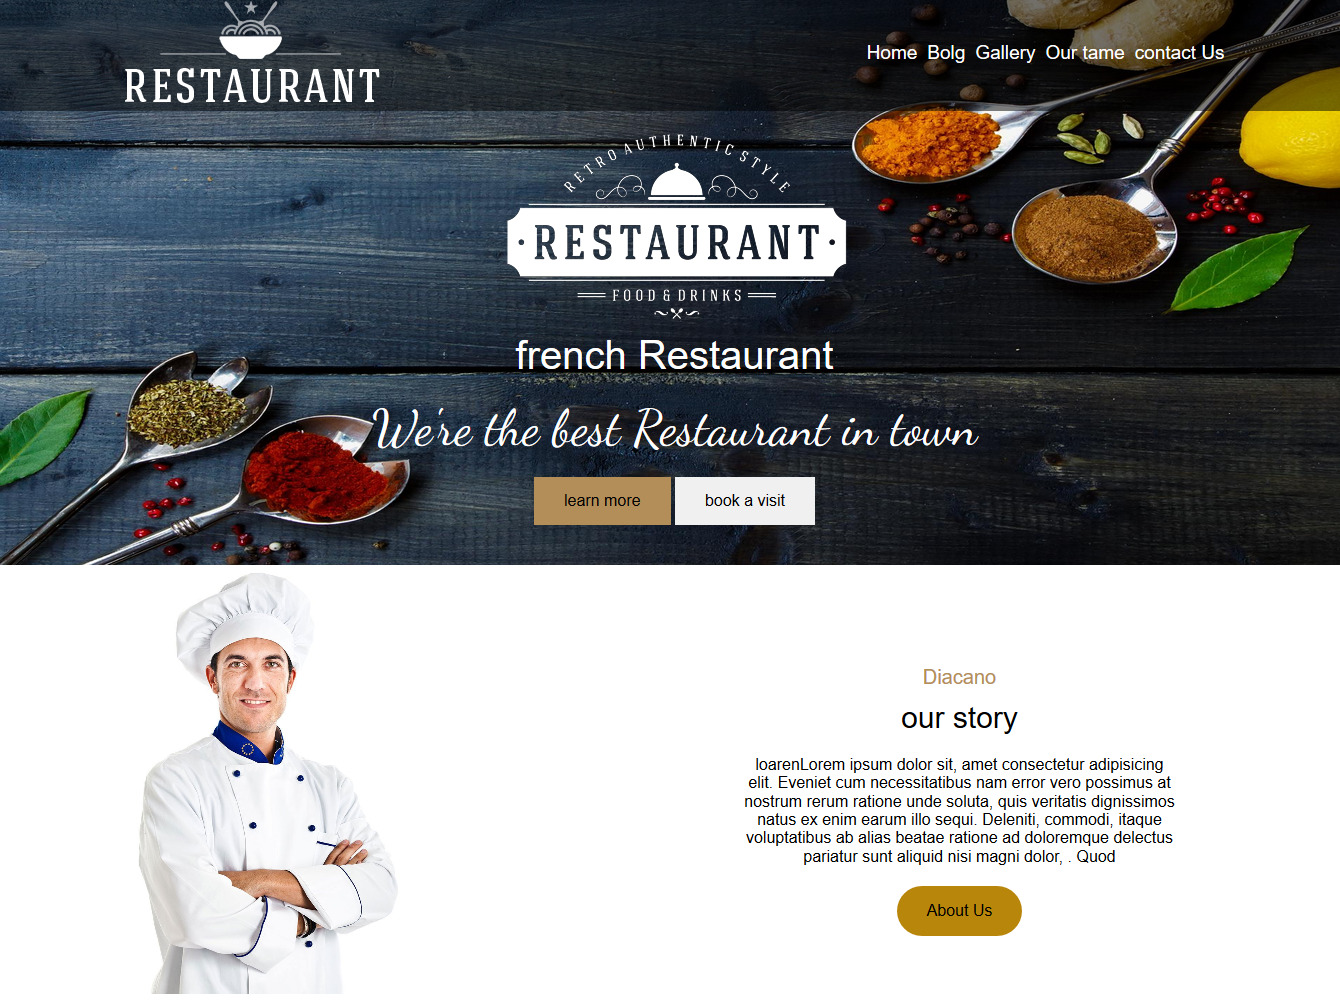
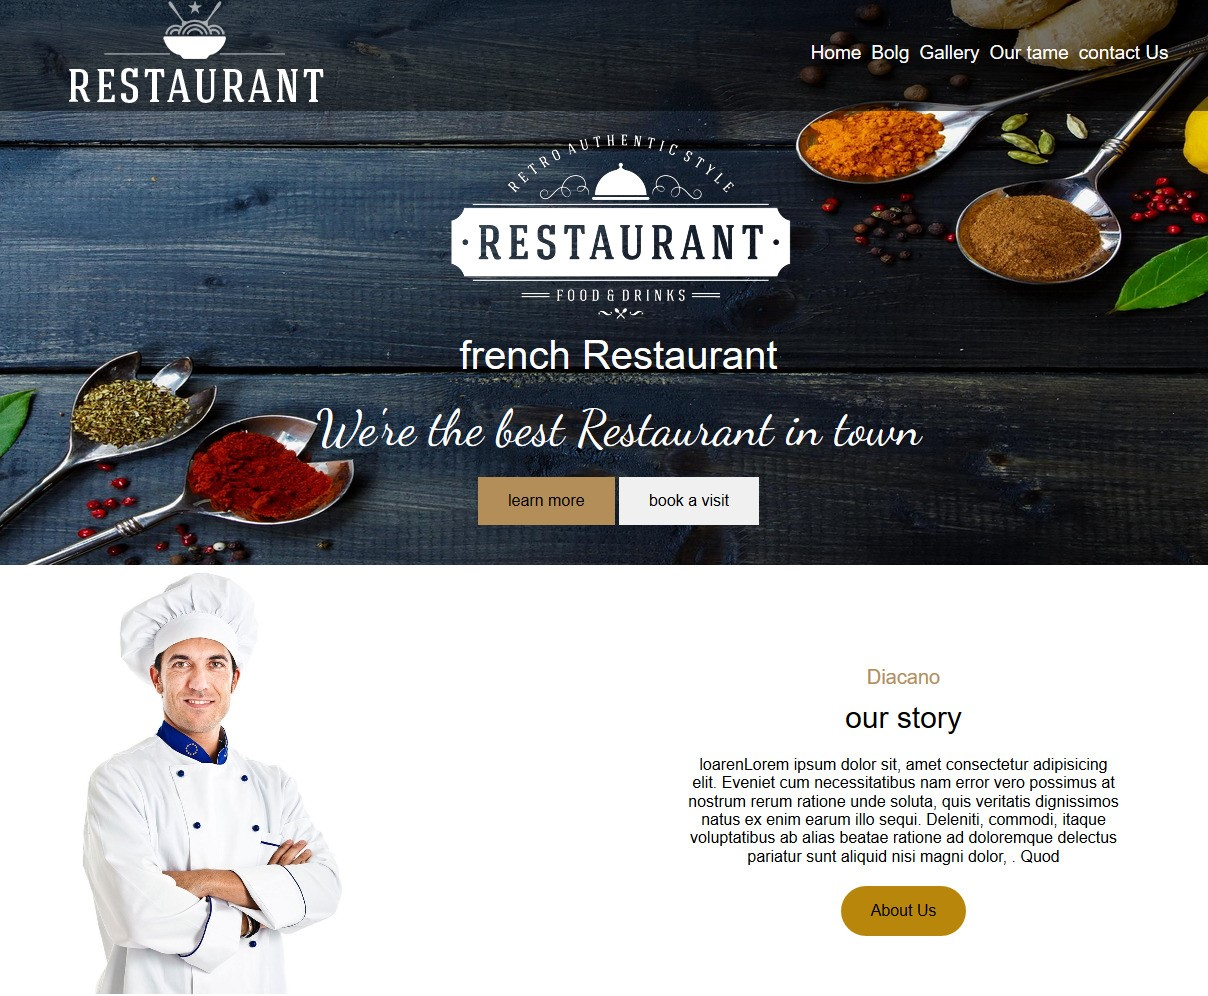
Abdallah

Changed region(s): [[0.0, 0.0, 1.0, 1.0], [0.5513, 0.6536, 0.9189, 0.9649]]

diff --git a/css/style.css b/css/style.css
@@ -28,7 +28,7 @@ button:focus
 }
 
 header{
-    background-image: url("../image/cbdb.jpg");
+    background-image: url("../image/PertinentIgnorantKakapo-size_restricted.gif");
     background-size: cover;
     width: 100%;
     height: 100vh;
@@ -37,15 +37,15 @@ header{
    align-items: center;
     position: relative;
 }
-header .layout{
+/* header .layout{
     position: absolute;
     top: 0%;
     left:0%;
    width: 100%;
    height: 100%;
-   /* background-color: rgba(0, 0,0,0.8); */
-   background-image: url("../image/PertinentIgnorantKakapo-size_restricted.gif");
-}
+   background-color: rgba(0, 0,0,0.8);
+   
+} */
 header .box-1{
     text-align: center;
     color: #fff;

diff --git a/Home.html b/Home.html
@@ -220,7 +220,7 @@
                       </div> 
                       <div class="col-lg-4 mb-lg-5 col-md-6">
                         <div class="logo">
-                            <img src="image/Screenshot_2020-09-29 Abdallah Rabeh(1).jpg"alt="" class="img-fluid" style="max-width: 70%;">
+                            <img src="image/Screenshot_2020-09-29 Abdallah Rabeh(2).png"alt="" class="img-fluid">
                             <div class="layout">
                               <i class="fa fa-link">
                               </i>

diff --git a/css/media.css b/css/media.css
@@ -22,9 +22,7 @@
     color: #000;
   }
   
-  header nav .navbar-collapse{
-    background-color: rgba(0,0,0,0.2)!important;
-  }
+  
   #About{
     display: flex;
   }
